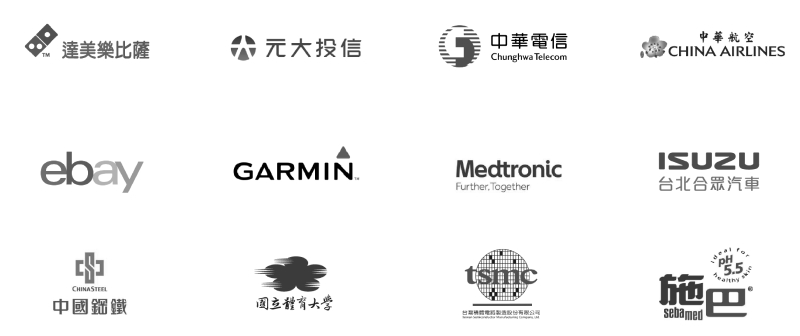
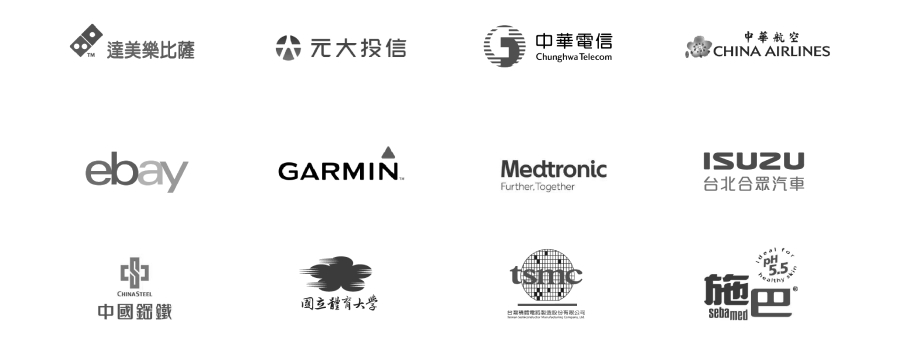
v6 done

diff --git a/assets/style.scss b/assets/style.scss
@@ -812,7 +812,7 @@ hr {
         letter-spacing: 3.5pxs;
     }
     .swiper {
-        width: 775px;
+        width: 835px;
         padding: 60px 10px;
     }
 }
@@ -879,6 +879,7 @@ hr {
                 width: 100%;
                 box-sizing: border-box;
                 padding: 5px;
+                margin-top: 0.5rem;
             }
             #submit {
                 background-color: var(--Primary_btn_color);

diff --git a/assets/css/style.css b/assets/css/style.css
@@ -750,7 +750,7 @@ hr {
   letter-spacing: 3.5pxs;
 }
 .layout_clients .swiper {
-  width: 775px;
+  width: 835px;
   padding: 60px 10px;
 }
 
@@ -821,6 +821,7 @@ hr {
   width: 100%;
   box-sizing: border-box;
   padding: 5px;
+  margin-top: 0.5rem;
 }
 .layout_work .layout_work_content .layout_work_title #submit,
 .layout_work .layout_work_content .layout_work_form #submit {
